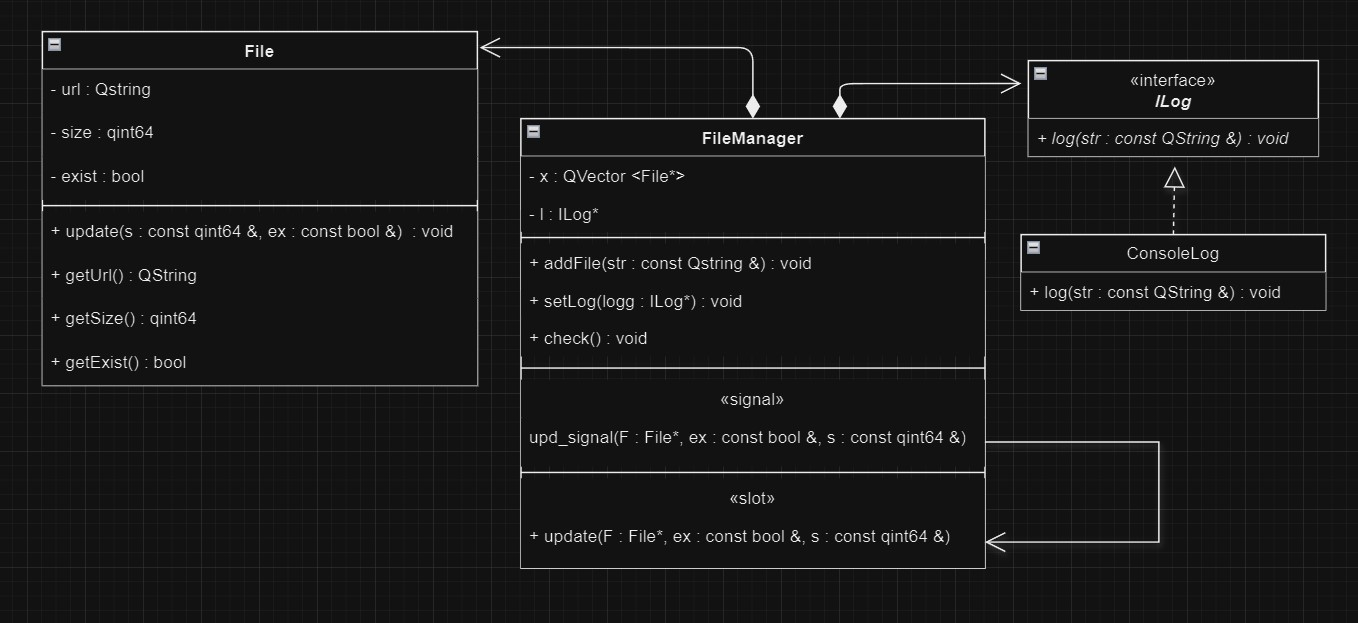
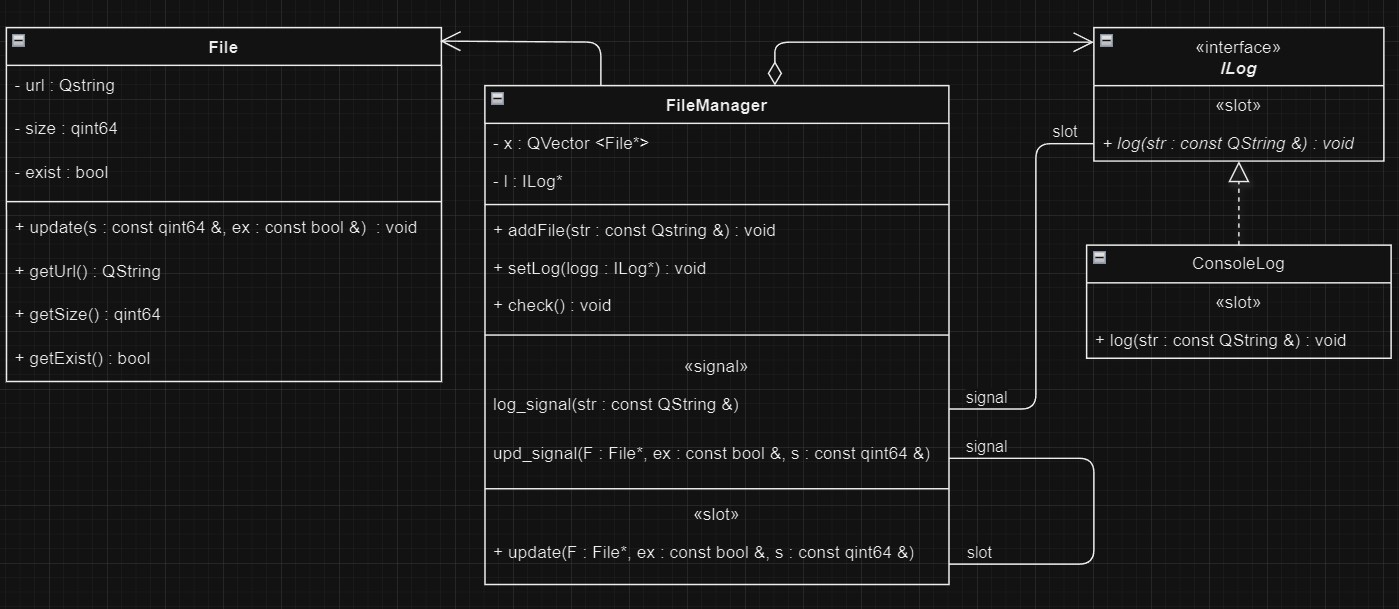
Обновление UML и README.md

diff --git a/README.md b/README.md
@@ -26,7 +26,7 @@ https://github.com/J7st2k/FIle_Tracking
 
 При запуске приложения вводим количество файлов, которые хотим отслеживать (> 0).
 
-Далее вводим пути к файлам, которые хотим отслеживать.
+Далее вводим пути к файлам, которые хотим отслеживать (с учётом экранирования).
 
 Готово!
 
@@ -38,6 +38,7 @@ https://github.com/J7st2k/FIle_Tracking
 3) Файл был создан после его добавления в отсеживаемые.
 4) Файл был изменён.
 5) Файл был удалён.
+6) Логгер не был задан / был задан неверно.
 
 Случай 1):
 Отслеживается в цикле while (i <= 0).
@@ -53,6 +54,9 @@ https://github.com/J7st2k/FIle_Tracking
 
 Случай 5):
 В консоль выводится оповещение о том, что файл был удалён.
+
+Случай 6):
+Программа продолжит работу даже без логгера.
 
 UML Диаграмма:
 
